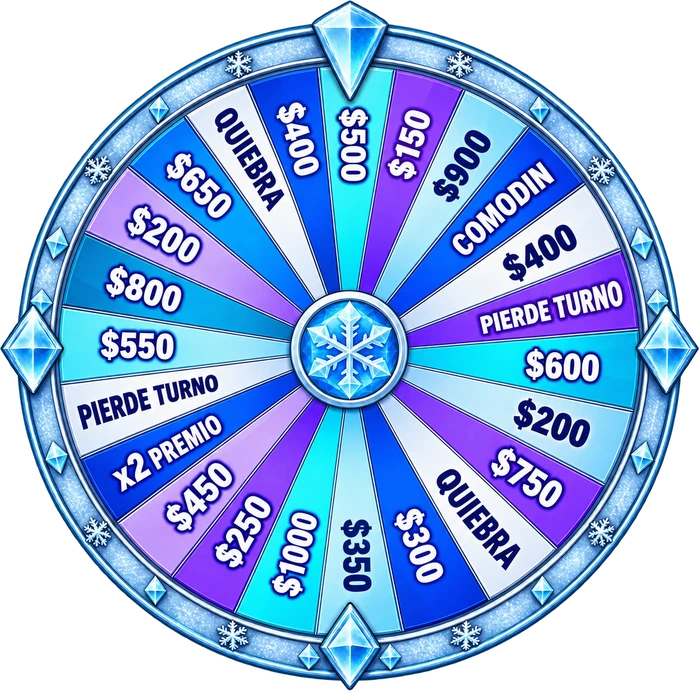
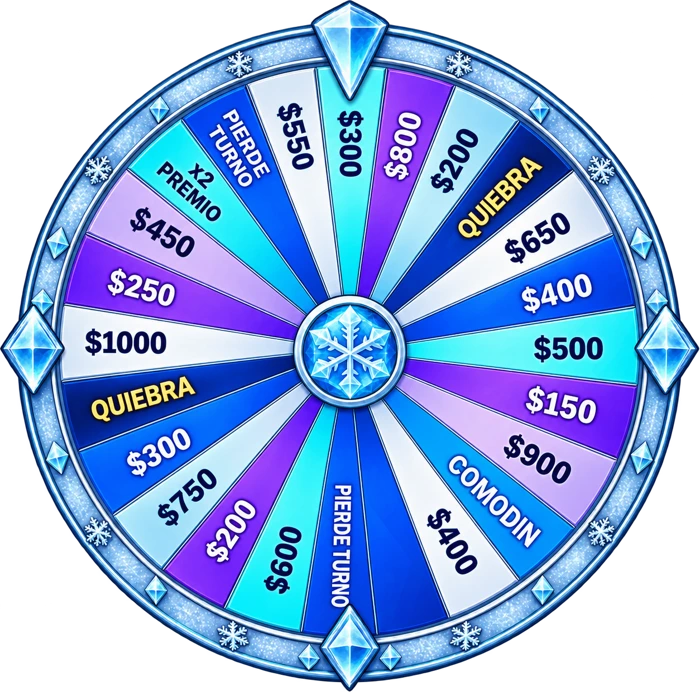
Rueda de Hielo: rehecha con el orden correcto, confirmada
Última de las 8 ruletas nuevas. Mismos 24 gajos en el mismo orden y
punto de arranque que las otras 6 ya confirmadas — no necesita
corrección de ángulo. Probé 2 giros reales al azar y coinciden exactos
(QUIEBRA y $900).

Bump de CACHE_NAME (archivo existente con contenido nuevo).

Claude-Session: https://claude.ai/code/session_016Hpyg3vebFKwHSnTQ2rALx

diff --git a/sw.js b/sw.js
@@ -1,4 +1,4 @@
-const CACHE_NAME = "gya-cache-v19";
+const CACHE_NAME = "gya-cache-v20";
 const APP_SHELL = ["./", "./index.html", "./manifest.json", "./icono-192.png", "./icono-512.png", "./assets/logo.webp"];
 
 self.addEventListener("install", (e) => {
